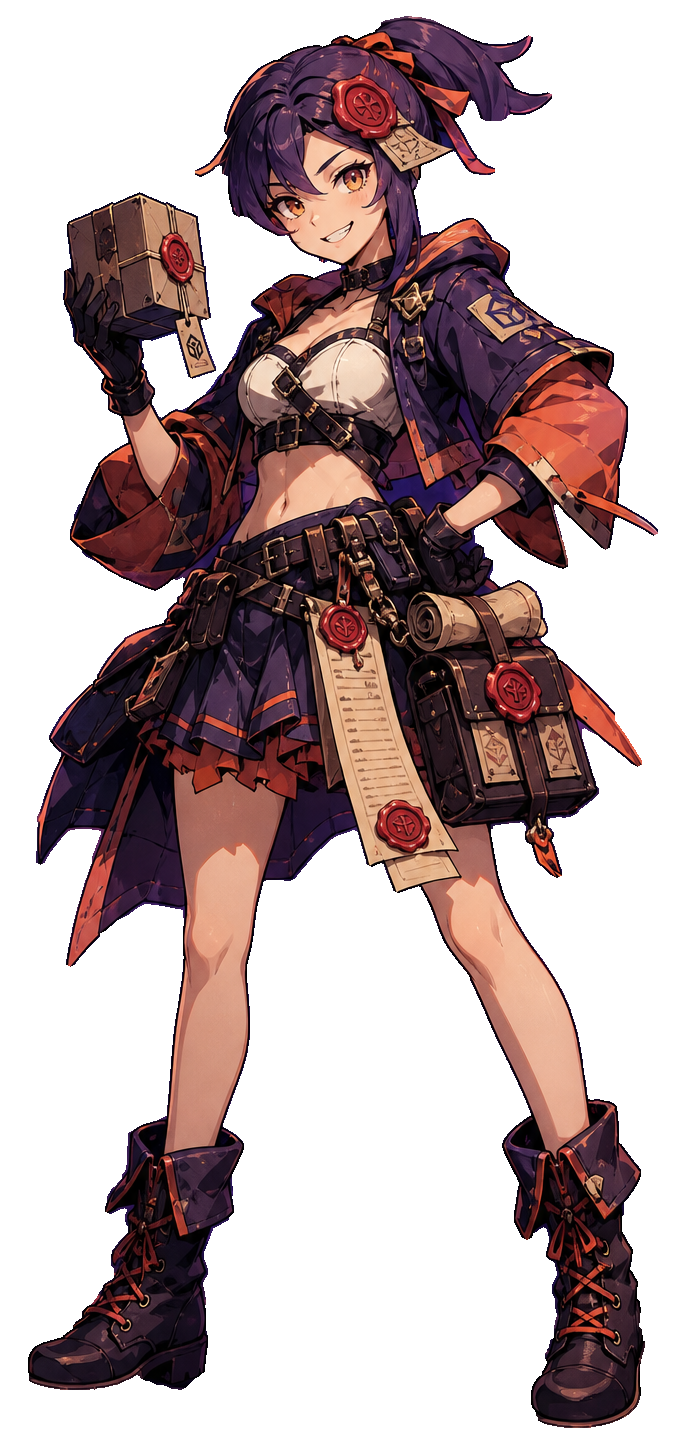
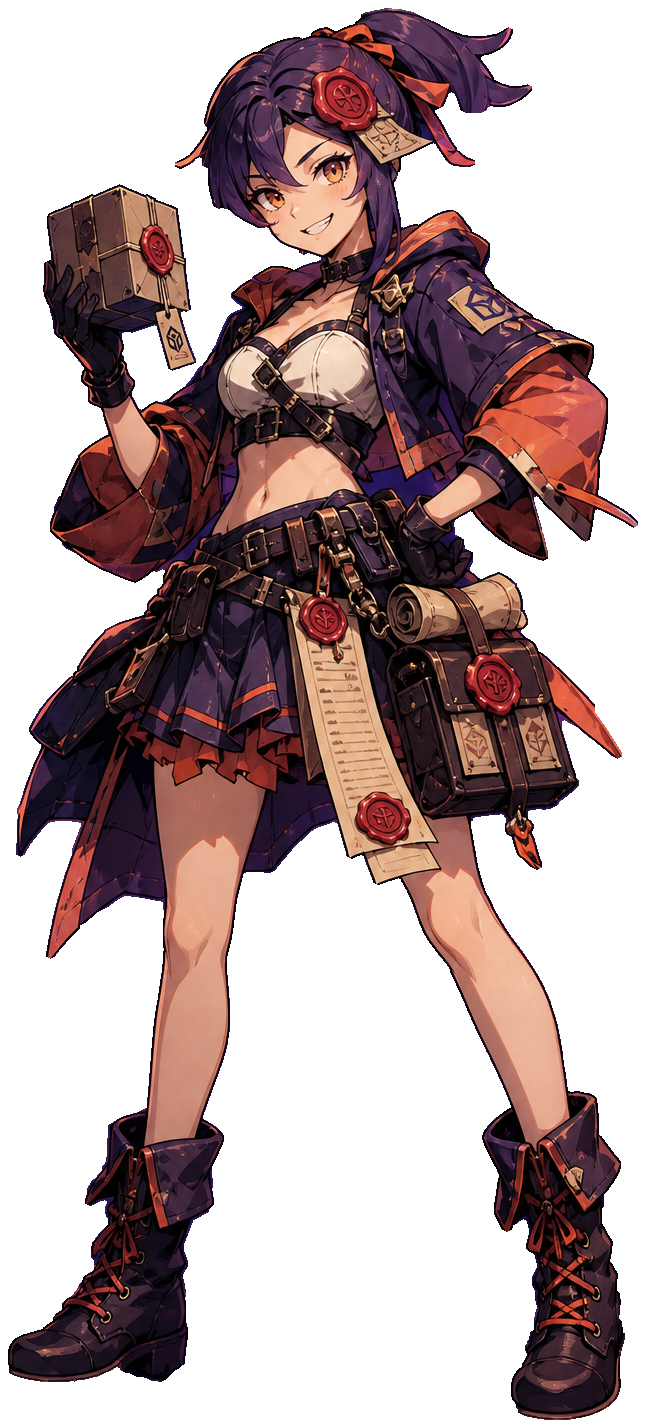
Brighten hub backdrop and clean hub character presentation.
Lift the shared hub background, strip portrait matte/vignette residue, and keep the showcase figure at its natural aspect.

Changed region(s): [[0.0, 0.0, 0.9907, 1.0]]

diff --git a/unity/PackspireUnity/Assets/Scripts/UI/PackspireUiFoundation.Shared.cs b/unity/PackspireUnity/Assets/Scripts/UI/PackspireUiFoundation.Shared.cs
@@ -150,10 +150,14 @@ public sealed partial class PackspireUiFoundation {
    if(maxW<=1f)maxW=host.contentRect.width;
   }
   if(maxH<=1f||maxW<=1f)return;
-  const float inset=0.94f;
+  // Hub stage is tall; keep natural silhouette and avoid stretch-to-fill squash.
+  var inset=image.ClassListContains("ps-hub-character-portrait")?0.98f:0.94f;
   var fitH=Mathf.Min(maxH*inset,(maxW*inset)/aspect);
-  image.style.height=fitH;
   image.style.width=fitH*aspect;
+  image.style.height=fitH;
+  image.style.maxWidth=StyleKeyword.None;
+  image.style.maxHeight=StyleKeyword.None;
+  if(image is Image img)img.scaleMode=ScaleMode.ScaleToFit;
  }
 
  VisualElement BuildPortraitDisplay(Texture2D tex,string className){

diff --git a/unity/PackspireUnity/Assets/Scripts/UI/PackspireUiFoundation.Hub.cs b/unity/PackspireUnity/Assets/Scripts/UI/PackspireUiFoundation.Hub.cs
@@ -147,10 +147,6 @@ public sealed partial class PackspireUiFoundation {
   var stage=Container("ps-hub-character-stage");
   stage.pickingMode=PickingMode.Ignore;
 
-  var vignette=Container("ps-hub-character-vignette");
-  vignette.pickingMode=PickingMode.Ignore;
-  stage.Add(vignette);
-
   hubCharacterHost=Container("ps-hub-character-host");
   hubCharacterHost.pickingMode=PickingMode.Ignore;
   var character=CharacterCatalog.Get(meta.selectedCharacterId);
@@ -167,9 +163,6 @@ public sealed partial class PackspireUiFoundation {
  VisualElement BuildHubCharacterPortrait(CharacterDef character){
   var frame=Container("ps-hub-character-portrait-frame");
   frame.pickingMode=PickingMode.Ignore;
-  var rim=Container("ps-hub-character-rim");
-  rim.pickingMode=PickingMode.Ignore;
-  frame.Add(rim);
   frame.Add(CharacterPortraitFront(character,"ps-hub-character-portrait"));
   return frame;
  }